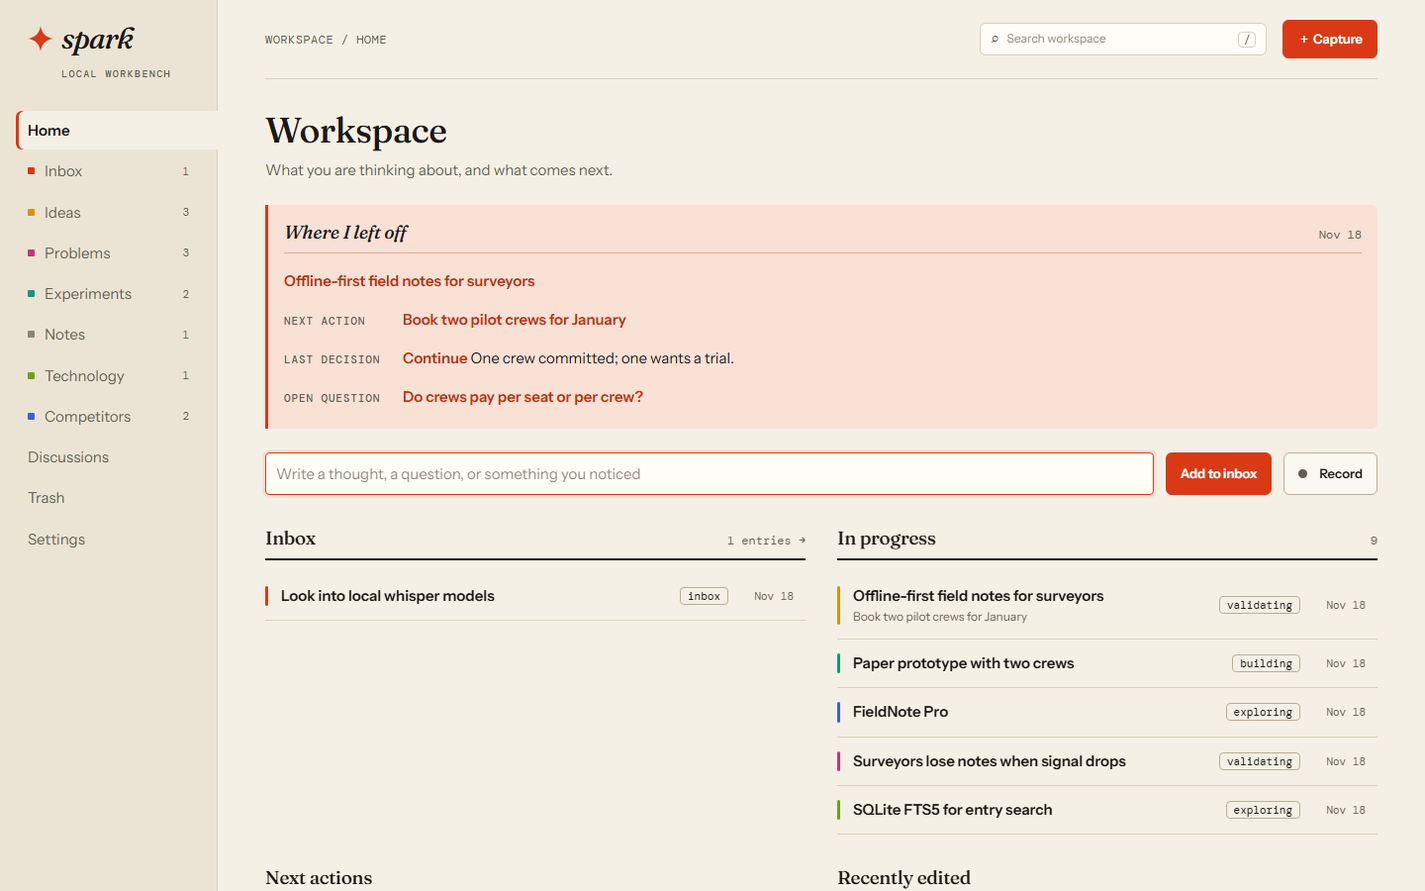
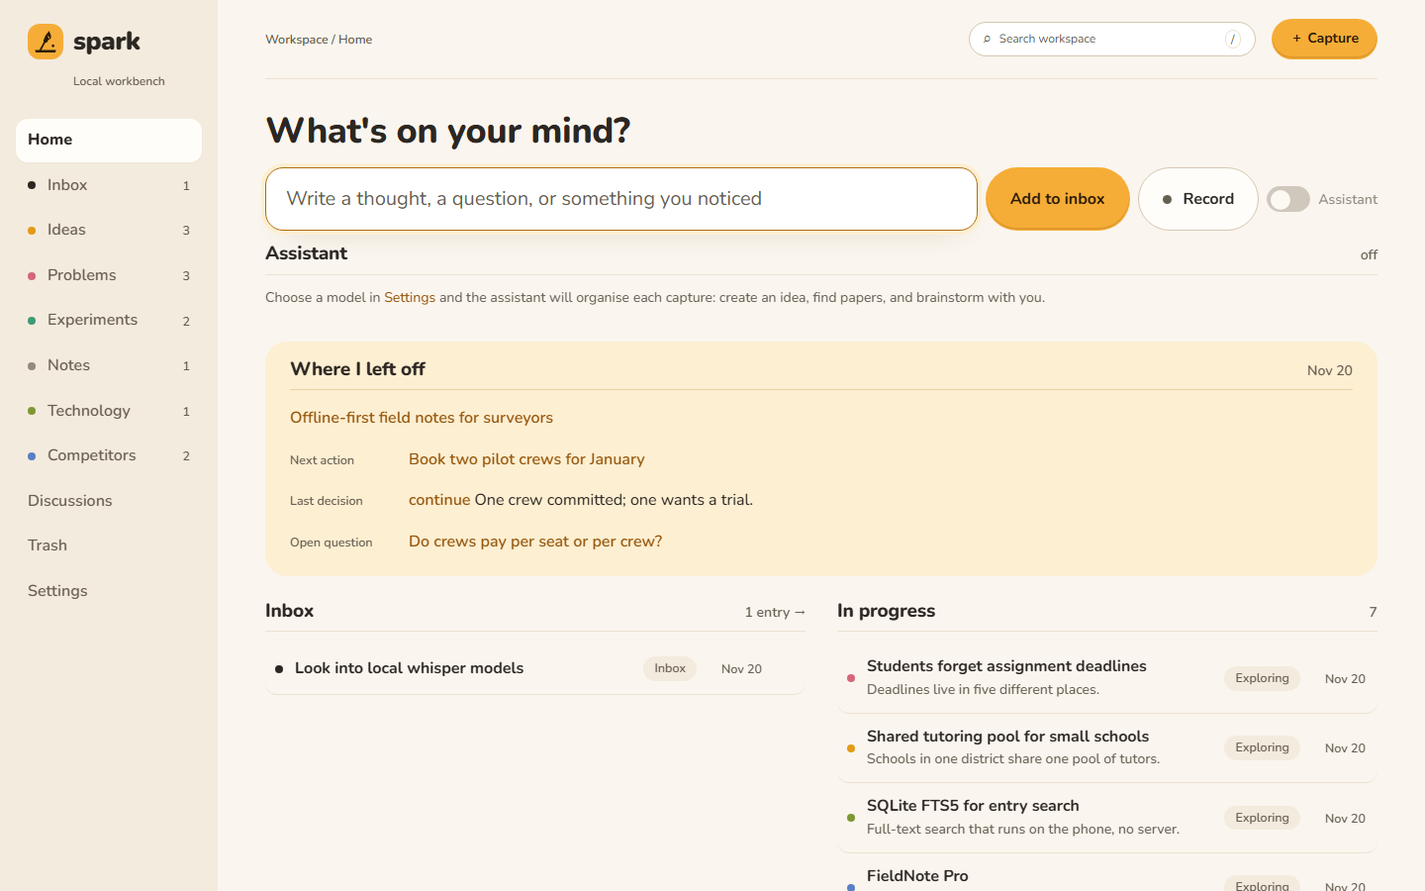
Update README for nine-stage pipeline, cloud classifier and new screenshots

diff --git a/README.md b/README.md
@@ -37,7 +37,7 @@ Screenshots use sample data. The color scheme follows your operating system.
 - **Related research.** Search OpenAlex for papers from the idea editor and save a result as a note. Nothing is saved unless you choose to.
 - **Literature research.** "Research this idea" runs a staged literature pass: a research frame, search and snowballing, relevance screening that you control, a literature map, a differ table and a draft next study. Papers are verified against Crossref or arXiv, quotes must match a stored abstract, and references export as BibTeX. See [The research pipeline](#the-research-pipeline).
 - **Multi-model discussions.** Ask one or more models the same question in solo, roundtable, or team mode. See [Discussions](#discussions).
-- **Idea testing.** "Test this idea" in the idea editor runs a sequential pipeline: a grill (rounds of questions with recommended answers, adapted from the grilling skill by Matt Pocock, MIT, see [licenses](licenses/mattpocock-skills-MIT.txt)), a three-lens board and chair, a competitor scout (web search when a key is set, otherwise model memory), a seeded buyer panel (20 buyers, or 100 on request), Van Westendorp pricing and business math, a marketing plan and a draft experiment. One job runs at a time, at most 25 model calls per job, cancellable and resumable, with unchanged stages reused on a rerun, and failed stages can be retried. See [The idea test pipeline](#the-idea-test-pipeline). Everything a model writes is marked Simulated, waits under To review, and never fills evidence fields. The same idea can be exported to a folder and tested in Claude Code instead; you run those commands yourself and import the results.
+- **Idea testing.** "Test this idea" in the idea editor runs a sequential pipeline: a grill (rounds of questions with recommended answers, adapted from the grilling skill by Matt Pocock, MIT, see [licenses](licenses/mattpocock-skills-MIT.txt)), a three-lens board and chair, a competitor scout (web search when a key is set, otherwise model memory), a seeded buyer panel (20 buyers, or 100 on request), Van Westendorp pricing, unit economics from a CFO step, a marketing plan, brand ideas and a draft experiment. One job runs at a time, at most 40 model calls per job (Resume grants 40 more), cancellable and resumable, with unchanged stages reused on a rerun, and failed stages can be retried. See [The idea test pipeline](#the-idea-test-pipeline). Everything a model writes is marked Simulated, waits under To review, and never fills evidence fields. The same idea can be exported to a folder and tested in Claude Code instead; you run those commands yourself and import the results.
 - **Founder review.** One button starts a parallel review of an idea by five participants: three board lenses (offers, monopoly, product), a CFO, and a launch lead. The idea and its linked entries are the context. The review uses the provider and model of your most recent discussion. Presets are adapted from [founder-skill](https://github.com/Jakeschincariol/founder-skill) by Jake Schincariol (MIT).
 - **Idea dashboard.** An idea opens as a set of cards: key numbers, summary, evidence, numbers, business model, work on this idea, branches, competitors, details, stages, research, and links. Use **Edit layout** to move, widen (one to three columns) or compact a card, and **Reset layout** to restore the default. The layout is saved in `ui-layout.json` in the data folder.
 - **Capture classifier.** A decision model types each new capture as an idea, problem, experiment, technology, competitor or note, with a probability for each. Unsure captures stay in the inbox with a question, captures with several clear topics are split into linked entries, and your type corrections guide later guesses. Private captures are always typed by the local model; other captures use `clef:cloud` when it is reachable. See [From capture to assistant](#from-capture-to-assistant).
@@ -47,6 +47,8 @@ Screenshots use sample data. The color scheme follows your operating system.
 - **Printable brief.** `#brief/<id>` shows a one-page view of an idea. **Print / save PDF** uses the light palette and hides the interface.
 - **One-tap dictation.** The home page has a **Record** button beside the capture box. Press it, speak, press it again. The audio is saved, transcribed, and added to the inbox as a new entry whose transcript you can review. Ctrl+K (Cmd+K on macOS) returns to home and focuses the capture box.
 - **Phone capture.** Capture from a paired phone. See [Phone](#pair-a-phone).
+
+![Idea dashboard](docs/screenshots/idea-dashboard.png)
 
 Model output is a draft until you save it. Replies can become a reviewable draft, and nothing is written to your workspace until you give it a title and save.
 
@@ -75,7 +77,7 @@ The server binds to loopback only.
 Spark is a small Node server with a SQLite file and a single-page frontend. The interesting part is what happens after you capture a thought. Models do the drafting, but the code decides what a model is allowed to touch, what it costs, and what counts as evidence. Three rules hold everywhere:
 
 - **Generated is not evidence.** Everything a model writes is stored with an origin (`assistant` or `simulation`) and an unreviewed flag. It sits in **To review** until you accept it. While unreviewed, it cannot fill an evidence field (an experiment's results or decision, a problem's evidence, a competitor's pricing or sources, an idea's price and cost inputs), and an idea cannot move to *validating* without an experiment whose results you wrote yourself.
-- **Local first.** Small decisions run on a local model. Cloud models are used only for long writing, only when you configured them, only inside a budget, and never for [Private](#private-entries-and-fail-closed-rules) entries.
+- **Local first.** Small decisions run on a local model. The exceptions are capture typing and splitting, which use the `clef:cloud` decision model for entries that are not private, and long writing. Cloud models are used only only when you configured them, only inside a budget, and never for [Private](#private-entries-and-fail-closed-rules) entries.
 - **Everything is stoppable.** Each run can be cancelled, undone or resumed, and a restart never loses finished work.
 
 ### From capture to assistant
@@ -84,7 +86,7 @@ Spark is a small Node server with a SQLite file and a single-page frontend. The 
 flowchart LR
   A["Type or dictate<br>(Whisper via Speaches)"] --> B[Inbox entry]
   B --> C["Planner<br>fills one JSON form"]
-  C --> D{"Decision engine<br>local logprobs"}
+  C --> D{"Decision engine<br>local logprobs or clef:cloud"}
   D -- confident --> E["Create entries, attach,<br>search papers"]
   D -- unsure --> F["Save a note<br>and ask you"]
   E --> G["Writer drafts a<br>short reply"]
@@ -98,14 +100,14 @@ flowchart LR
 
 **Planner.** The planner model returns one small JSON form: an intent, an entry type, a title, a few fields it can copy from the capture, an optional entry to attach to (chosen from an index of your 50 most recently edited reviewed entries, never from ids it invents), and an optional paper query. It is told never to write evidence, results, prices or numbers, and the code drops any field outside a per-type allow list. If the reply is not valid, Spark asks once for a repair. If that fails too, it falls back to a plain idea draft built from your own words and skips the decision engine.
 
-**Decision engine** (`decide.cjs`). The planner's guess at intent is not trusted on its own. A local Ollama model answers multiple-choice questions, and the engine reads the log probabilities of the answer token. That gives a real probability for each option instead of a self-reported confidence.
+**Decision engine** (`decide.cjs`). The planner's guess at intent is not trusted on its own. A decision model answers multiple-choice questions and the engine gets a real probability for each option instead of a self-reported confidence. With a local Ollama model it reads the log probabilities of the answer token. With `clef:cloud` (see below) the model returns the probabilities itself.
 
 - The engine talks to Ollama on loopback. The local model setting refuses cloud model names.
-- **Cloud classifier.** For captures that are not private, the type and split questions go to `clef:cloud`, a decision model reached through Ollama's `/v1/systemone`. It returns a probability per option directly, sharpened with a fitted temperature (0.29). Private captures, captures linked to a private entry, and any cloud failure use the local model (`gemma4:e4b` by default); after a failure Spark stays local for 60 seconds. Only corrections made on non-private entries are shown to the cloud model. Set `decision.cloudModel` to an empty string to keep everything local. In the decide-eval benchmark (82 typed captures) `clef:cloud` was right 97.6% of the time against 91.5% for `gemma4:e4b`, with no wrong answer above 0.6 confidence.
 - **Capture classifier** (`classify.cjs`). Each capture is typed as an idea, problem, experiment, technology, competitor or note, and a second question asks whether it is a new entry, an addition to an existing one, or a question.
 - **Unsure captures** stay in the inbox as notes. Spark asks, for example, "Is this an idea (62%) or a problem (25%)?" when the top type is below the threshold (0.6 by default), the top two are less than 0.15 apart, or the options hold less than half the probability. It does not guess.
 - **Split captures.** A capture of up to five sentences is split at sentence ends, semicolons and spoken connectors such as "and then", when at least two different types are each confident. Each part becomes a draft entry, linked to the others. Fragments under three words are joined to a neighbour, and at most three entries are made.
-- **Owner corrections.** Changing the type of an entry the classifier filed is recorded as a correction. The most relevant corrections (those sharing words with the capture first) are shown to the classifier as examples. The last 200 are kept in the workspace.
+- **Owner corrections.** Changing the type of an entry the classifier filed is recorded as a correction, marked private if the entry was. The most relevant corrections (those sharing words with the capture first) are shown to the classifier as examples. The last 200 are kept in the workspace.
+- **Cloud classifier.** For captures that are not private, the type and split questions go to `clef:cloud`, a decision model reached through Ollama's `/v1/systemone`. It returns a probability per option directly, sharpened with a fitted temperature (0.29). Private captures, captures linked to a private entry, and any cloud failure use the local model (`gemma4:e4b` by default); after a failure Spark stays local for 60 seconds. Only corrections made on non-private entries are shown to the cloud model. Set `decision.cloudModel` to an empty string to keep everything local. In the decide-eval benchmark (82 typed captures) `clef:cloud` was right 97.6% of the time against 91.5% for `gemma4:e4b`, with no wrong answer above 0.6 confidence.
 - A planner suggestion to attach a capture to an existing entry must also pass a yes/no check from the engine (P(yes) at least 0.5) and an embedding check with `bge-m3` (cosine similarity at least 0.58). Otherwise the attachment is dropped.
 - Per-question temperature scaling can be calibrated against labelled examples (`decide-eval.cjs`), and embeddings are cached in SQLite by content hash.
 - The same engine screens papers by relevance in the research pipeline.
@@ -114,11 +116,11 @@ flowchart LR
 
 ### The idea test pipeline
 
-"Test this idea" in the idea editor runs seven stages in order. Stages run through three model roles set in Settings: the **planner** (small structured decisions), the **writer** (long prose) and the **simulation** model (played board members and buyers). Writer defaults to planner, and simulation defaults to writer, so one local model is enough to start.
+"Test this idea" in the idea editor runs nine stages in order. Stages run through three model roles set in Settings: the **planner** (small structured decisions), the **writer** (long prose) and the **simulation** model (played board members and buyers). Writer defaults to planner, and simulation defaults to writer, so one local model is enough to start.
 
 ```mermaid
 flowchart LR
-  G[grill] --> B[board] --> C[competitors] --> P[panel] --> R[pricing] --> M[marketing] --> X[experiment]
+  G[grill] --> C[competitors] --> B[board] --> P[panel] --> R[pricing] --> F[cfo] --> M[marketing] --> N[brand] --> X[experiment]
   G -. "dealbreaker: park or continue" .-> G
   B -. "all three vote PASS" .-> S((stop))
   P -. "target buy rate under 20%" .-> S
@@ -128,20 +130,22 @@ flowchart LR
 | Stage | Role | What it does | What it writes | Gate |
 | --- | --- | --- | --- | --- |
 | **grill** | writer | Up to 3 rounds. Each round asks at most 5 questions that follow a design tree of decisions, each with a recommended answer. The job waits for your answers. | A discussion thread, no entries | A model can flag a dealbreaker. You can **park** the idea (its stage becomes *parked*) or answer anyway. Resuming past a parked idea needs an explicit override, which restores the previous stage. |
-| **board** | simulation | Three lenses (offers, monopoly, product) each score the idea out of 10 and vote, then a chair summarises agreement, disagreement and the one thing to test. | One note, "Board memo (simulated)" | Stops if all three vote PASS. |
 | **competitors** | writer | With a web search key, the scout plans up to 6 searches, reads the results, and fetches the pages it picks, so each competitor can carry its price and links. Without one, a model lists up to 8 direct, indirect and substitute competitors and the visible gap from memory. | One entry per name, titled "(confirmed by source)" or "(unconfirmed)". Sourced entries link to their pages. Memory-only entries have no pricing or sources. | None. Memory-only entries are guesses: add a source and a date to confirm one. If a search fails, the stage falls back to memory and says why. |
+| **board** | simulation | Three lenses (offers, monopoly, product) each score the idea out of 10 and vote, then a chair summarises agreement, disagreement and the one thing to test. | One note, "Board memo (simulated)" | Stops if all three vote PASS. |
 | **panel** | simulation | Drafts a customer profile and waits for you to approve it. Then deals 20 buyers (100 on request) across the profile's income, age, behaviour and objection mix, seeded by the idea id so reruns are stable. Buyers answer in batches (4 per call, 10 for 100) and any missing answers are retried once. | One note with the yes-rate overall and by segment, top reasons to pass, what would flip a no, and each buyer's four price answers | Stops if the buy rate in the largest target segment is under 20%. If fewer than half the buyers answered, the result is marked inconclusive instead of gating. Needs "What it is" and "Who it is for" on the idea. |
 | **pricing** | none (arithmetic) | Van Westendorp price range from the panel's four price answers, set against competitor prices you confirmed with a source, then business math at the simulated price and at your own price. | One note, "Pricing (simulated)". Your price fields are never changed. | Stops if contribution per sale is zero or negative, or break-even exceeds capacity. |
+| **cfo** | writer | Unit economics in the idea's revenue model: kept per sale, margin, break-even (in the model's own unit, such as visitors a month for ads or grants a year), year 1 month by month, cash needed and payback. Inputs you left empty are estimated and marked as assumptions. | One note, "Unit economics (simulated)" | None |
 | **marketing** | writer | Three positioning options, two or three channels, ten hooks that each answer one panel objection, a budget split and the cheapest real test with its success line written first. | One note, "Marketing plan (simulated)" | None |
+| **brand** | writer | Name ideas, voice, a one-line promise and a look brief, from the positioning and the simulated buyers. Lists the trademark, domain and handle checks that are yours to run. | One note, "Brand (simulated)" | None |
 | **experiment** | planner | Turns that cheapest real test into a draft experiment: hypothesis, plan, success criteria. | One experiment entry. Results and decision stay empty for you to fill. | None |
 
 The panel is deliberately labelled as a limit, not a result. Every buyer is the same model, so they share its biases. The note says the yes-rate is an upper bound and not evidence of demand.
 
 **Gates and overrides.** A gate stops the job and shows its reason. To continue you override that gate explicitly, or change the idea and start again. An override is remembered for that exact stage input.
 
-**Call cap.** A test job is limited to 25 model calls. At the cap the job stops with a note, and **Resume** grants another 25.
+**Call cap.** A test job is limited to 40 model calls. At the cap the job stops with a note, and **Resume** grants another 40.
 
-**Stage cache.** Each stage's input is hashed from the stage name, the model, your idea's title, notes and fields, the outputs of every earlier stage, and stage-specific inputs (panel size, confirmed competitor prices, the approved profile). If a later job on the same idea has a finished stage with the same hash and the entries it wrote still exist, the stage is reused for zero calls. Change a field and that stage and everything after it rerun.
+**Stage cache.** Each stage's input is hashed from the stage name, the model, your idea's title, notes and fields, the outputs of every earlier stage, and stage-specific inputs (panel size, confirmed competitor prices, the approved profile). If a later job on the same idea has a finished stage with the same hash and the entries it wrote still exist, the stage is reused for zero calls. Change a field and that stage and everything after it rerun. A rerun stage moves its own earlier, unaccepted note to trash and writes a fresh one, so notes do not pile up and any edits you made stay recoverable. Notes you accepted are never touched.
 
 **waiting_user, cancel, resume and restart.** The job parks in `waiting_user` when it needs you: grill answers, profile approval, or missing idea fields. **Cancel** aborts the current call. If Spark stops mid-run, finished stages are kept. On the next start, interrupted jobs are marked *stopped*, and a stage that was running goes back to pending, so **Resume** continues from the first unfinished stage. One job runs at a time, and an idea can have only one active test. A test can be scheduled for off-peak hours (see below).
 
@@ -165,6 +169,8 @@ The owner picks how the idea makes money, and optionally a second stream. The tw
 
 - The questions the buyer panel asks: whether they would buy at a price, upgrade, how much they would use it, or, for licensing and contracts, whether the decision-maker would take a meeting or pilot. Grants skip the panel, since a buyer panel says nothing useful about a grant.
 - The inputs the income model needs, such as visitors and revenue per 1,000 pageviews for ads, a take rate and volume for a marketplace, or billable hours and a rate for services. Each input is a field on the idea.
+- How the other stages talk about it: the grill asks about traffic, funding or funders instead of who pays, the board sees the model and your numbers, and marketing says "would use" rather than "buys" when nobody pays per unit.
+- Break-even in the model's own unit on the money card and in the CFO note: visitors a month for ads, sales volume for a marketplace, grants a year for grant funding, free users for freemium, and so on, or "never" when one unit earns nothing.
 - The income streams and the CFO's label. Subscriptions and one-time sales also feed the unit economics. The label reads Profitable or Not yet, or Funded by grants for grant-funded research, or Not a business yet when there is no revenue plan.
 
 If the owner leaves the model empty, Spark guesses: a price means subscription, otherwise a writer call picks a model from the idea text, with keyword matches as a fallback, and an idea with no sign of income is treated as not monetized yet. Every guess is labelled as a guess. A price more than five times the median competitor price is flagged. With web search on, some models (such as ads, marketplace commission, licensing and donations) also get a few public benchmark facts, each with its link.
@@ -206,7 +212,7 @@ role (planner / writer / simulation)
 
 Every call goes through `cost.cjs` before it reaches a provider (`providers.cjs`).
 
-- **Local by default.** The planner, the decision engine and anything needing structured output run on your own Ollama. Models whose names end in `:cloud` or `-cloud`, or any non-local provider, count as cloud.
+- **Local by default.** The planner, the decision engine and anything needing structured output run on your own Ollama. The one exception is capture typing for entries that are not private, which uses `clef:cloud` (see [Decision engine](#from-capture-to-assistant)). Models whose names end in `:cloud` or `-cloud`, or any non-local provider, count as cloud.
 - **Cloud only for heavy writing.** A cloud model is used for prose when it has a price, the budget allows it, and the entry is not private. Structured-JSON calls always stay local. The default price table covers Ollama Cloud models (DeepSeek V4.1 Flash and V4 Pro, Kimi K3, GLM 5.3, gpt-oss 120b) in dollars per million tokens, and you can edit it. A cloud model with no entry in the table runs locally instead, so an unpriced model can never spend money.
 - **Ledger.** Each call writes a usage row (model, tokens, cost, off-peak flag, whether the token counts were estimated). **Settings** shows the month's spend by model, by feature and by run, and each Test and Research button shows an estimate based on your past runs.
 - **Budget cap.** The monthly budget defaults to $5. Before each cloud call Spark adds the call's estimate to month-to-date spend, including calls in flight. If that would pass the cap, the call runs locally instead and the run records why.
@@ -227,11 +233,11 @@ Peak prices are twice those. In the same measurement, the local `gemma4:e4b` mod
 
 Mark an entry **Private** and nothing about it leaves the computer. A job also counts as private if the idea is linked to a private entry.
 
-- All model calls for it run on a local model, even if a cloud model is chosen.
+- All model calls for it run on a local model, even if a cloud model is chosen, including capture typing.
 - Paper search is skipped for a private capture, and a private idea's research job refuses outbound requests (paper search, snowball, DOI lookups and full-text fetches).
 - A non-private capture's workspace index never includes private entries, and discussions that include one are marked local-only.
 
-Where a check cannot be answered safely, Spark stops or falls back to local instead of guessing: no price means local, an exhausted budget means local, and if no truly local model exists the job fails with an error instead of using the cloud. A local endpoint that is not Ollama at `127.0.0.1:11434` is treated as a cloud route unless you mark it local and private in Settings, because a gateway can forward to the cloud. The decision engine refuses non-loopback addresses and cloud model names.
+Where a check cannot be answered safely, Spark stops or falls back to local instead of guessing: no price means local, an exhausted budget means local, and if no truly local model exists the job fails with an error instead of using the cloud. A local endpoint that is not Ollama at `127.0.0.1:11434` is treated as a cloud route unless you mark it local and private in Settings, because a gateway can forward to the cloud. The decision engine refuses non-loopback addresses, its local model setting refuses cloud model names, and it sends a capture to `clef:cloud` only when the capture is not private and not linked to a private entry.
 
 ### The founder bridge
 
@@ -304,7 +310,7 @@ After saving a provider in Settings, select **Check connection / models**. Model
 
 Privacy principles:
 
-- **Keys stay on your machine.** Environment variables take precedence over Settings. Keys entered in Settings are written as plain text to `data/secrets.json`, which is git-ignored. Settings endpoints never return keys, and backups never include them. `.env` files are not loaded automatically.
+- **Keys stay on your machine.** Environment variables take precedence over Settings. Keys entered in Settings are written as plain text to `secrets.json` in the data folder, outside the repository. Settings endpoints never return keys, and backups never include them. `.env` files are not loaded automatically.
 - **Local-only mode** prevents Spark from selecting cloud providers. The local adapter accepts only loopback URLs and refuses redirects. A local server can still route requests to a cloud model, so use a genuinely local model if you need offline inference.
 - **Cloud providers receive the context you select**, under their own data policies. The `store: false` setting for OpenAI does not guarantee zero retention.
 
@@ -392,10 +398,10 @@ Imports are validated before any data changes. **Merge** overwrites records with
 - `store.cjs`: SQLite storage, validation, soft delete, backups, import and export.
 - `providers.cjs`: provider adapters, streaming, and role prompts.
 - `attachments.cjs`: attachment storage and size limits.
-- `voice.cjs`: transcription requests to local or OpenAI endpoints.
+- `voice.cjs`: transcription requests to local, Groq or OpenAI endpoints.
 - `papers.cjs`: paper search across OpenAlex, Crossref and arXiv, DOI verification and snowballing.
 - `assistant.cjs`: the capture assistant: planner, review queue, Undo.
-- `decide.cjs`: local decision engine (logprob answers, embeddings, calibration). `decide-eval.cjs` measures it.
+- `decide.cjs`: decision engine (local logprob answers, the `clef:cloud` path, embeddings, calibration). `decide-eval.cjs` measures it.
 - `classify.cjs`: capture classifier: type and handling questions, splitting, owner corrections.
 - `canvas.cjs`: business model canvas, computed verdict and one-page summary.
 - `ideachat.cjs`: idea chat, proposed changes and branches.
